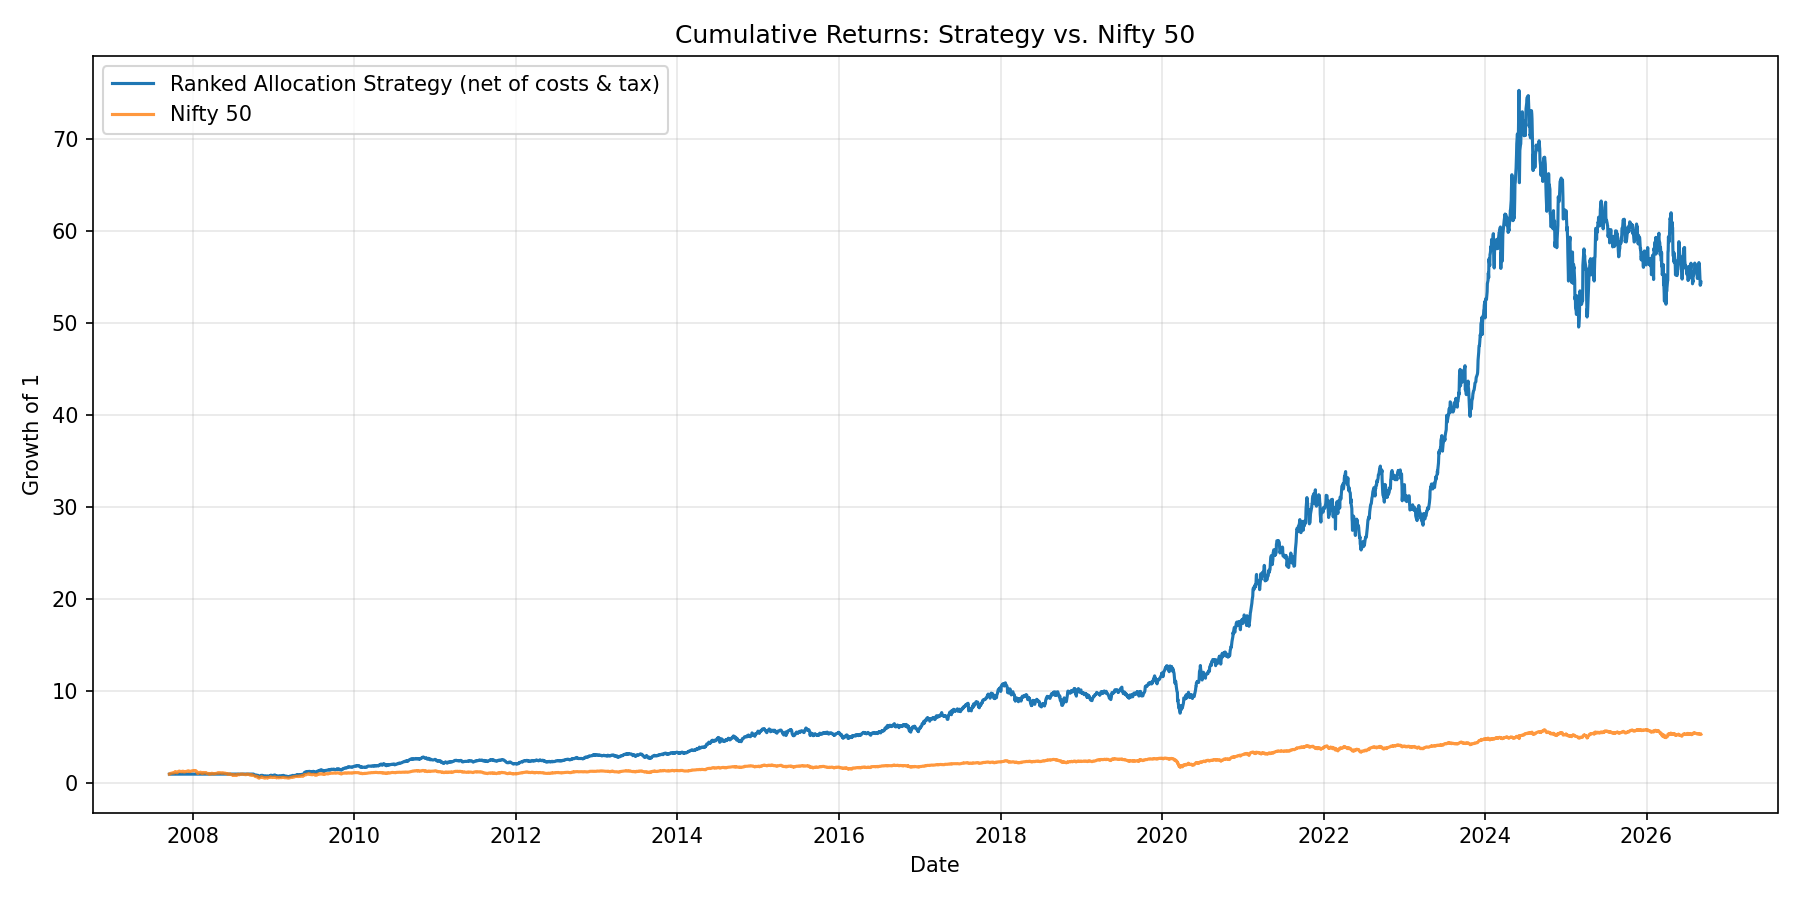
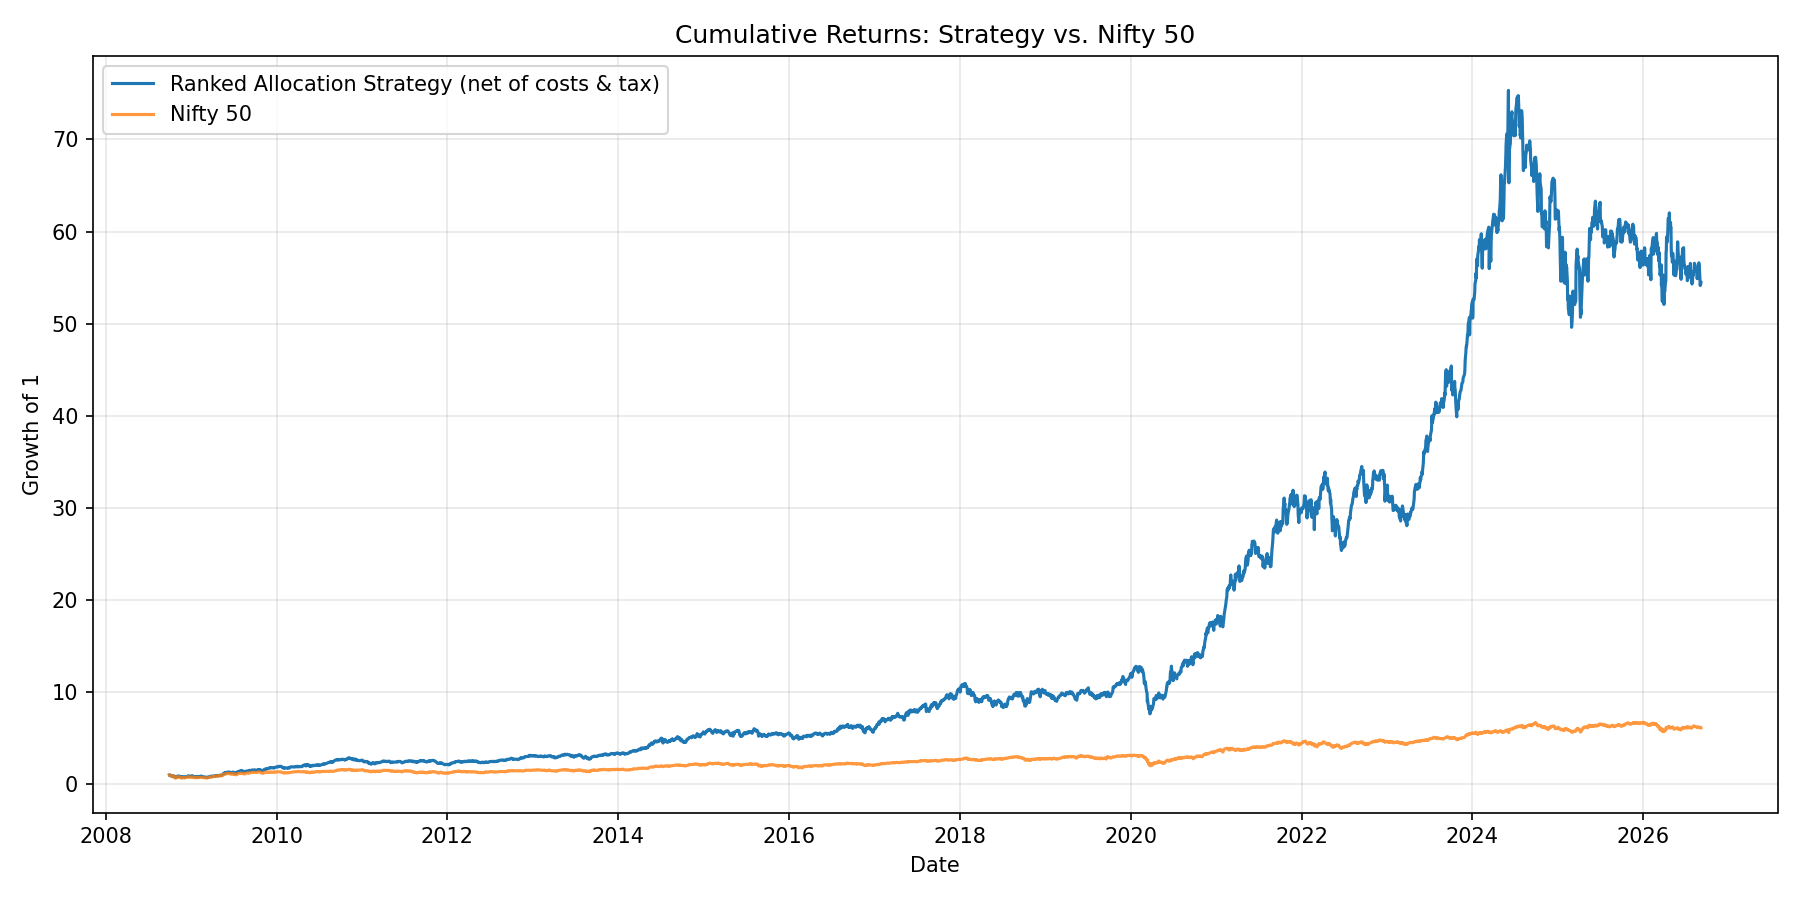
Fix backtest start-date bug: Total_Rank was all-NaN for a full year on the Indian pipeline
Idiosyncratic vol/beta need BETA_WINDOW=252 days of the BENCHMARK's own
history, but Nifty 50 data only starts 2007-09-17 -- so Total_Rank was
NaN for every stock (0 valid candidates at every quarter-end, confirmed
directly) until ~252 trading days later, around 2008-09-30. The backtest
correctly held cash during that window rather than trading on garbage
signals, but the reported "Full Period" silently included this dead year,
understating the true active-period CAGR (23.47% -> 24.98% after the fix;
zero-holding days 259 -> 1).

Fixed generally via data_pipeline.first_date_with_min_coverage (already
built for the Nasdaq universe-thinness issue), now also gating on
Total_Rank validity in both main.py and walk_forward.py. Applied the same
gate to nasdaq_main.py/nasdaq_walk_forward.py for consistency -- confirmed
it's a no-op there since the existing Nasdaq universe-coverage gate was
already more restrictive.

India walk-forward is now a clean 5/5 folds beating Nifty 50, including a
comfortable (not near-miss) margin in every fold.

diff --git a/main.py b/main.py
@@ -154,6 +154,26 @@ def main():
     # (yfinance's ^NSEI history starts well after some of the older stocks').
     usable_dates = usable_dates[usable_dates >= benchmark_start]
 
+    # Bug found via audit: `warmup` above is an offset into the FULL panel
+    # (which starts in the 1990s for old constituents like HDFCBANK), but
+    # idiosyncratic vol/beta need BETA_WINDOW=252 days of the BENCHMARK's
+    # OWN history, and the Nifty 50 series itself only starts at
+    # benchmark_start (2007-09-17) -- so Total_Rank was actually NaN for
+    # every stock until ~252 trading days AFTER benchmark_start (~2008-09),
+    # not from benchmark_start itself. That left a full extra year
+    # (2007-09-17 to 2008-09-30, confirmed via Total_Rank coverage: 0 valid
+    # stocks at every quarter-end in that window) where the strategy sat in
+    # 100% cash while being reported as part of the "Full Period" -- not a
+    # look-ahead or execution bug (the backtest correctly held cash when the
+    # signal was genuinely all-NaN), but a misleading start date that
+    # understated the strategy's true active-period return. Cap the start
+    # at the first date Total_Rank actually has TOP_N valid candidates.
+    min_rank_coverage_start = dp.first_date_with_min_coverage(factor_snapshots["Total_Rank"], config.TOP_N)
+    print(f"  Total_Rank has >= {config.TOP_N} valid candidates from {min_rank_coverage_start.date()} "
+          f"onward -- backtest will not start earlier than this either (idiosyncratic vol needs "
+          f"{config.BETA_WINDOW} days of the benchmark's OWN history, not just the universe's).")
+    usable_dates = usable_dates[usable_dates >= min_rank_coverage_start]
+
     train, val, test = dp.split_dates(usable_dates)
 
     print("\n================ FACTOR IC ANALYSIS ================\n")

diff --git a/walk_forward.py b/walk_forward.py
@@ -36,6 +36,7 @@ import numpy as np
 import pandas as pd
 
 import config
+import data_pipeline as dp
 import backtest
 import metrics
 import ic_analysis
@@ -143,6 +144,12 @@ def main(n_folds=5, rolling_window=12):
     warmup = max(config.MOMENTUM_SKIP + config.MOMENTUM_WINDOW, config.BETA_WINDOW, config.VOLUME_SLOW) + 5
     usable_dates = all_dates[warmup:]
     usable_dates = usable_dates[usable_dates >= benchmark_start]
+    # See main.py's matching comment: idiosyncratic vol/beta need
+    # BETA_WINDOW days of the BENCHMARK's own history, which binds later
+    # than benchmark_start alone for India (Total_Rank was all-NaN until
+    # ~2008-09, a full year after benchmark_start).
+    min_rank_coverage_start = dp.first_date_with_min_coverage(factor_snapshots["Total_Rank"], config.TOP_N)
+    usable_dates = usable_dates[usable_dates >= min_rank_coverage_start]
 
     full_daily_weights = backtest.daily_target_weights(rebalance_weights, usable_dates)
     adtv_px = liquidity.average_daily_traded_value(panels["Close"], panels["Volume"])

diff --git a/nasdaq_main.py b/nasdaq_main.py
@@ -145,6 +145,16 @@ def main():
     usable_dates = usable_dates[usable_dates >= benchmark_start]
     usable_dates = usable_dates[usable_dates >= min_coverage_start]
 
+    # Same bug found and fixed on the Indian side: idiosyncratic vol/beta
+    # need BETA_WINDOW days of the BENCHMARK's own history, which can bind
+    # later than the universe-coverage gate above. Belt-and-suspenders --
+    # ^NDX has data back to 1985 so this doesn't end up binding here (the
+    # coverage gate above is already later), but check explicitly rather
+    # than assume.
+    min_rank_coverage_start = dp.first_date_with_min_coverage(factor_snapshots["Total_Rank"], config.TOP_N)
+    print(f"  Total_Rank has >= {config.TOP_N} valid candidates from {min_rank_coverage_start.date()} onward.")
+    usable_dates = usable_dates[usable_dates >= min_rank_coverage_start]
+
     train, val, test = dp.split_dates(usable_dates)
 
     print("\n================ FACTOR IC ANALYSIS (NASDAQ-100) ================\n")

diff --git a/nasdaq_walk_forward.py b/nasdaq_walk_forward.py
@@ -127,6 +127,8 @@ def main(n_folds=5, rolling_window=12):
     usable_dates = all_dates[warmup:]
     usable_dates = usable_dates[usable_dates >= benchmark_start]
     usable_dates = usable_dates[usable_dates >= min_coverage_start]
+    min_rank_coverage_start = dp.first_date_with_min_coverage(factor_snapshots["Total_Rank"], config.TOP_N)
+    usable_dates = usable_dates[usable_dates >= min_rank_coverage_start]
 
     full_daily_weights = backtest.daily_target_weights(rebalance_weights, usable_dates)
     adtv_px = liquidity.average_daily_traded_value(panels["Close"], panels["Volume"])
